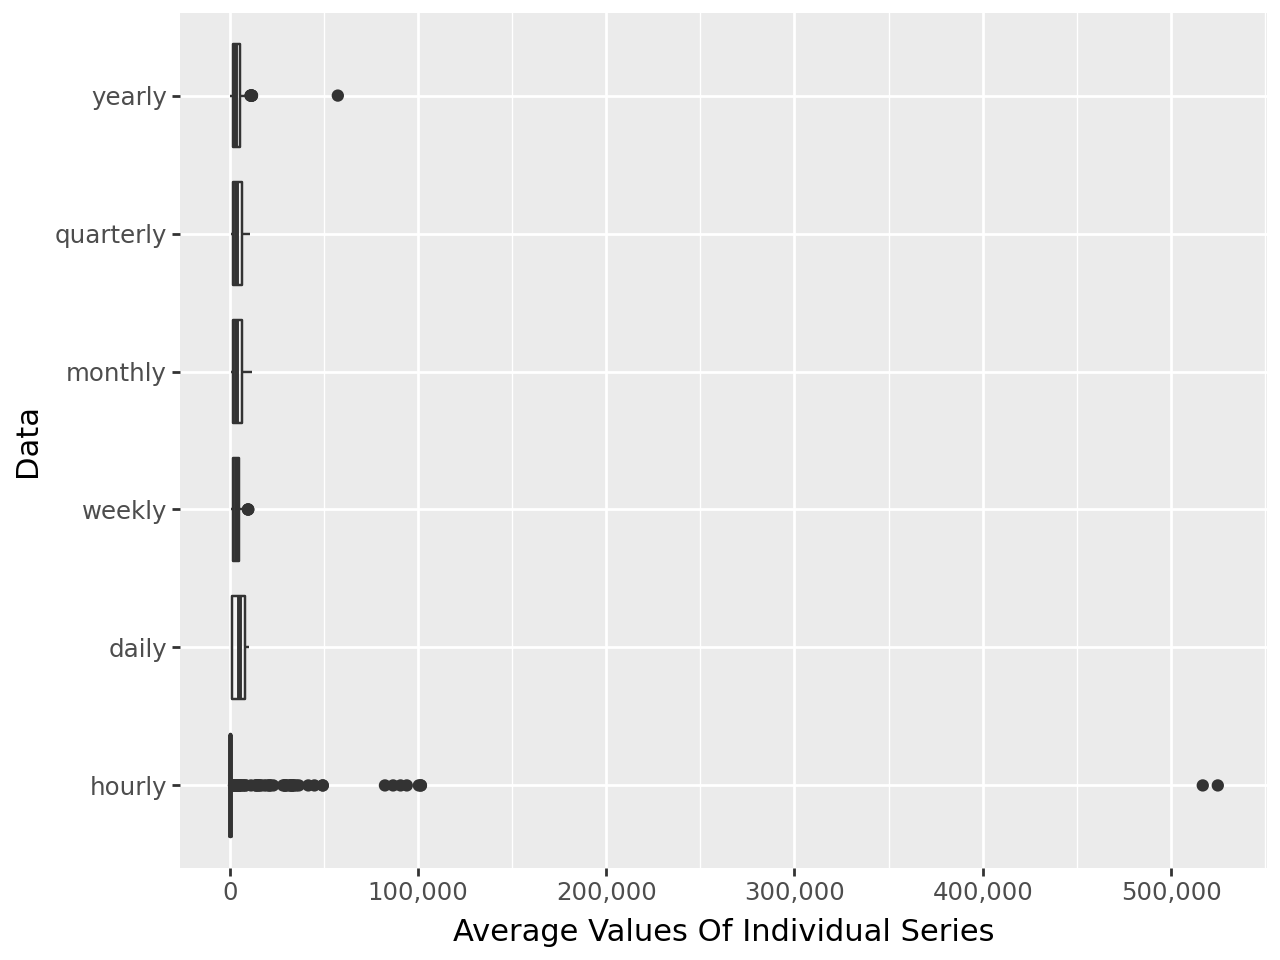
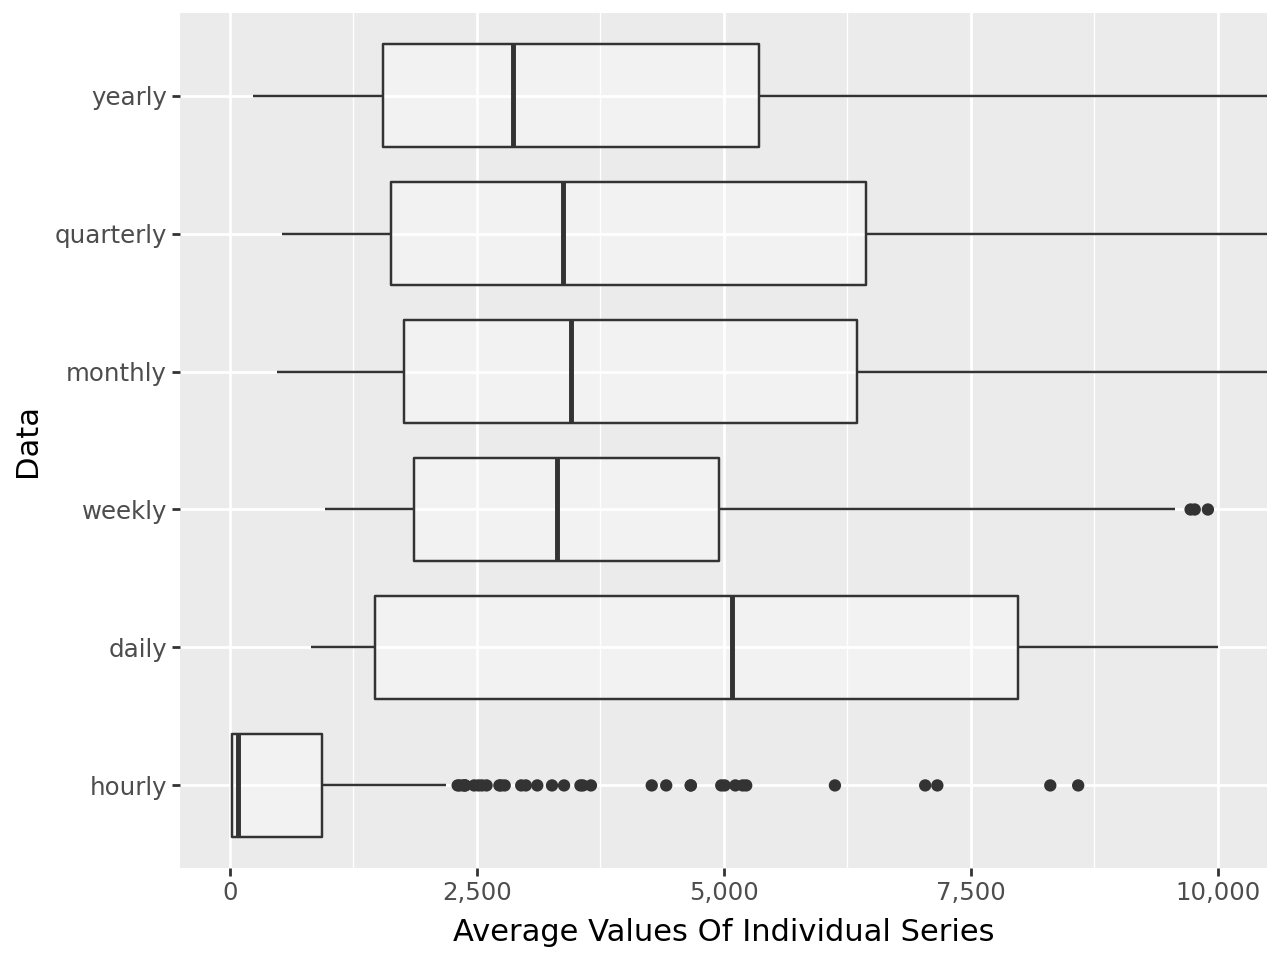
remove some graphs

diff --git a/README.md b/README.md
@@ -67,56 +67,14 @@ is inconsistent.
 
 ![](README_files/figure-commonmark/cell-3-output-1.png)
 
-Hourly and yearly contain a few high average value series.
+There is some variability in average value of series in most datasets.
 
 ![](README_files/figure-commonmark/cell-4-output-1.png)
 
-Ignoring the few extreme series, there is some variability in average
-value of series in most datasets.
+Within each dataset, there is some variability in standard deviations of
+series.
 
 ![](README_files/figure-commonmark/cell-5-output-1.png)
-
-A few series have large standard deviation.
-
-![](README_files/figure-commonmark/cell-6-output-1.png)
-
-Removing a few extreme series, there is some variability in standard
-deviations of series.
-
-![](README_files/figure-commonmark/cell-7-output-1.png)
-
-# Model Summary
-
-### Comparison with Other Participates
-
-The first vertical line is 1st place. The second vertical line is 7th
-place. Out of 61 submissions, my best model beat the 7th place model in
-the M4 competition.
-
-![](README_files/figure-commonmark/cell-8-output-1.png)
-
-### Naive Models
-
-Within the competion, the naive model took 41st. The seasonal naive
-model took 37th. I was able to reproduce these results.
-
-### ML Models
-
-AutoRidge and AutoLightGBM are the machine learning models used here.
-Their parameters were tuned using a time based cross validation. 50
-different combinations of hyper parameters were done.
-
-Interestingly, boosting did no better than ridge regression. Roughly,
-training a single boosted model took longer than training 50 ridge
-regression models. If one is will to sacrifice some statistical
-performance, ridge regression is the way to go.
-
-### Deep Learning Models
-
-All deep learning models are tuned on 50 iterations of cross validation
-each. Overall, deep learning is superior to machine learning based
-approaches. NHits, NBeats beat boosting and ridge regression by a wide
-margin. The TFT model matched performance.
 
 # Ecosystem Overview
 
@@ -141,6 +99,39 @@ ML forecast makes use of standard machine learning to build model. It
 includes functions to take a time series data and shape into standard
 tabular data. Then standard regression models including boosting and
 linear regression can be used.
+
+# Model Summary
+
+### Comparison with Other Participates
+
+The first vertical line is 1st place. The second vertical line is 7th
+place. Out of 61 submissions, my best model beat the 7th place model in
+the M4 competition.
+
+![](README_files/figure-commonmark/cell-6-output-1.png)
+
+### Naive Models
+
+Within the competion, the naive model took 41st. The seasonal naive
+model took 37th. I was able to reproduce these results.
+
+### ML Models
+
+AutoRidge and AutoLightGBM are the machine learning models used here.
+Their parameters were tuned using a time based cross validation. 50
+different combinations of hyper parameters were done.
+
+Interestingly, boosting did no better than ridge regression. Roughly,
+training a single boosted model took longer than training 50 ridge
+regression models. If one is will to sacrifice some statistical
+performance, ridge regression is the way to go.
+
+### Deep Learning Models
+
+All deep learning models are tuned on 50 iterations of cross validation
+each. Overall, deep learning is superior to machine learning based
+approaches. NHits, NBeats beat boosting and ridge regression by a wide
+margin. The TFT model matched performance.
 
 # Code Overview
 
